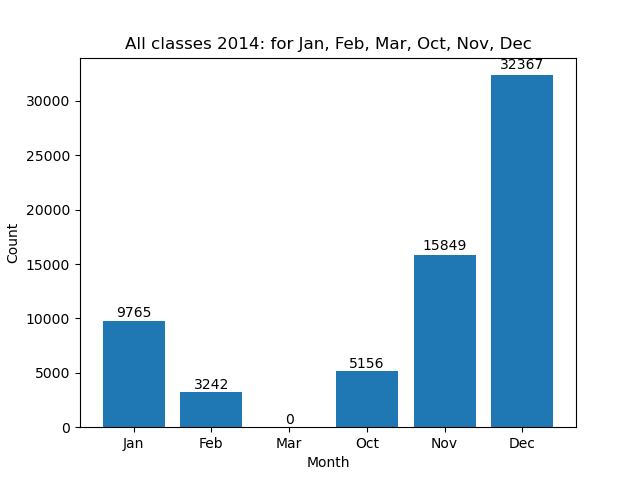
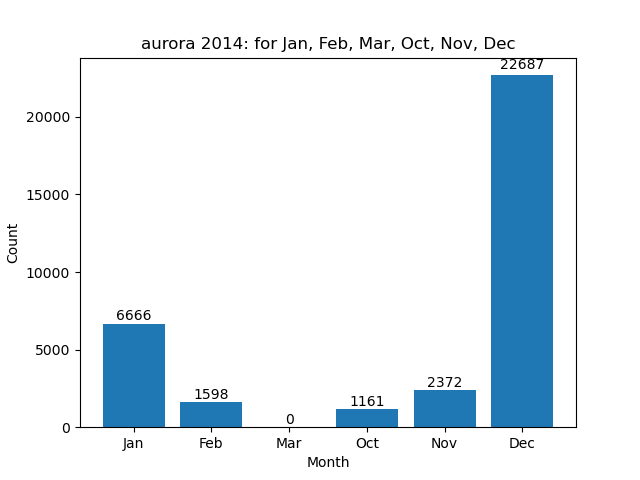
stats, b2, 2014 and 2020

diff --git a/stats.py b/stats.py
@@ -195,6 +195,7 @@ def stats(label=False, year=False, plot_year=True):
         plt.title("%s %s: for Jan, Feb, Mar, Oct, Nov, Dec" %(label_plot, year))
         #plt.xticks(rotation='vertical')
         plt.xlabel("Month"); plt.ylabel("Count")
+        #plt.savefig("stats/b2/t_data/month_plot_%s.png" %year)
 
 
         hours = Get_hours()
@@ -248,8 +249,8 @@ def stats(label=False, year=False, plot_year=True):
 #stats(label='arc', year="2020")
 #stats(label="discrete", year="2014", plot_year=False)
 #stats(label="discrete", year="2020", plot_year=False)
-#stats(year="2014")
-#stats(year="2020")
+stats(label="aurora", year="2014")
+stats(label="aurora", year="2020")
 
 # Lage automatisk lagring
 # Lage to soyler, aurora, ikke aurora.
@@ -257,7 +258,7 @@ def stats(label=False, year=False, plot_year=True):
 
 #stats(label="aurora", year="2020")
 
-#plt.show()
+plt.show()
 
 def stats_aurora(label, year=False):
     """
@@ -507,8 +508,8 @@ def Hour_subplot(year, month=False):
     plt.savefig("stats/b2/t_data/hour_plot_%s.png" %year)
 
 
-Hour_subplot(year="2014", month=True)
-Hour_subplot(year="2020", month=True)
+#Hour_subplot(year="2014", month=True)
+#Hour_subplot(year="2020", month=True)
 
 #plt.show()
 
